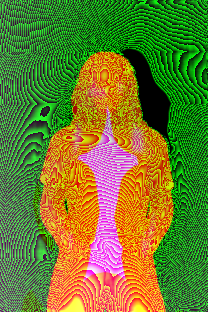
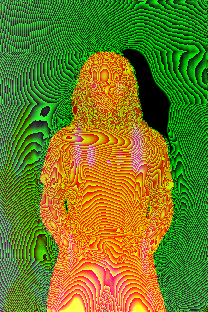
Depth files recomputed with a fill reach for strength 2.5
Claude-Session: https://claude.ai/code/session_01TZpFkBRf53oRw7ttcKpWKk

diff --git a/tools/tiefe/dateien.py b/tools/tiefe/dateien.py
@@ -9,10 +9,10 @@
 # behind = photo under dahinter.
 import sys, os, cv2, numpy as np
 src, out = sys.argv[1], sys.argv[2]
-NX, R = 208, 80                    # mesh grid, reach of the fill (half-res px)
+NX, R = 208, 130                    # mesh grid, reach of the fill (half-res px)
 S2 = 0.6                            # size of the two overlays relative to the working size (they hold no fine detail)
 BW = 0.05                           # mirror fill: depth step that separates surfaces behind
-REACH = 76                          # largest shift between near and far on the page (half-res px; strength 120 %, whole swipe)
+REACH = 130                          # largest shift between near and far on the page (half-res px; strength 250 %, most of a swipe)
 # JUMP: depth step that counts as a real edge (two layers, something gets uncovered). Smaller steps (jaw against hair, an arm
 #       in front of the body) are not cut: the picture just stretches a few pixels there. Was 0.10: cut inside faces, light
 #       crescents at the jaw (Hugo's recording 26.11.).
